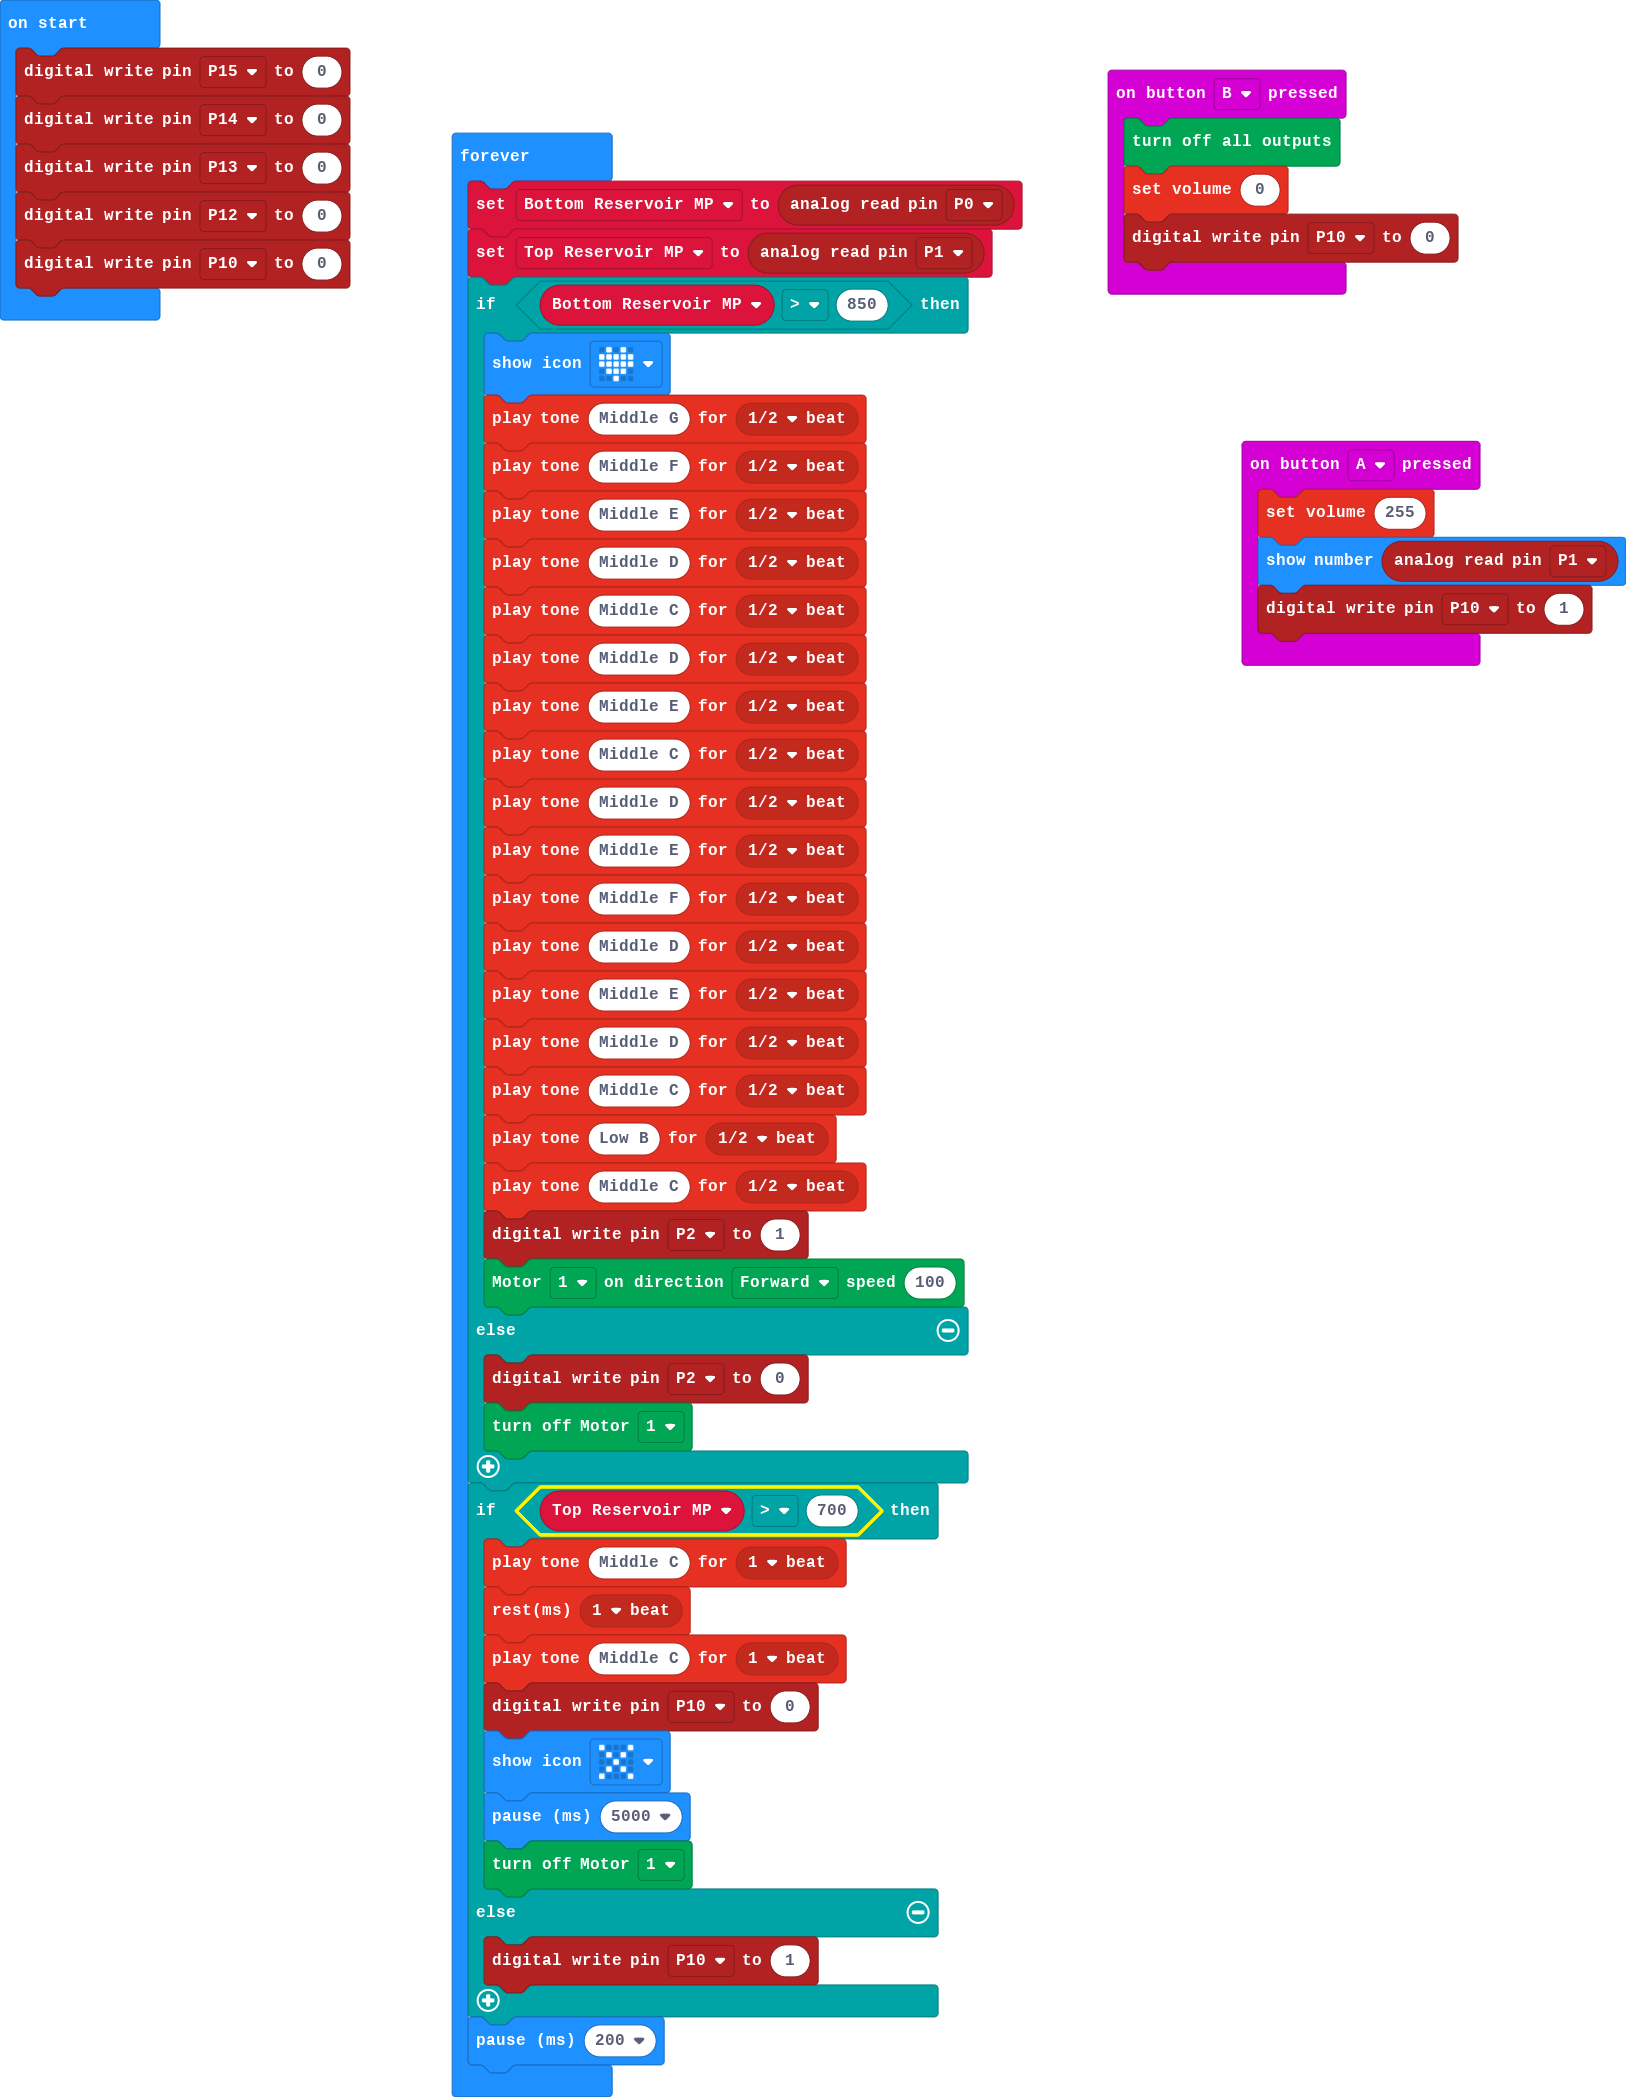
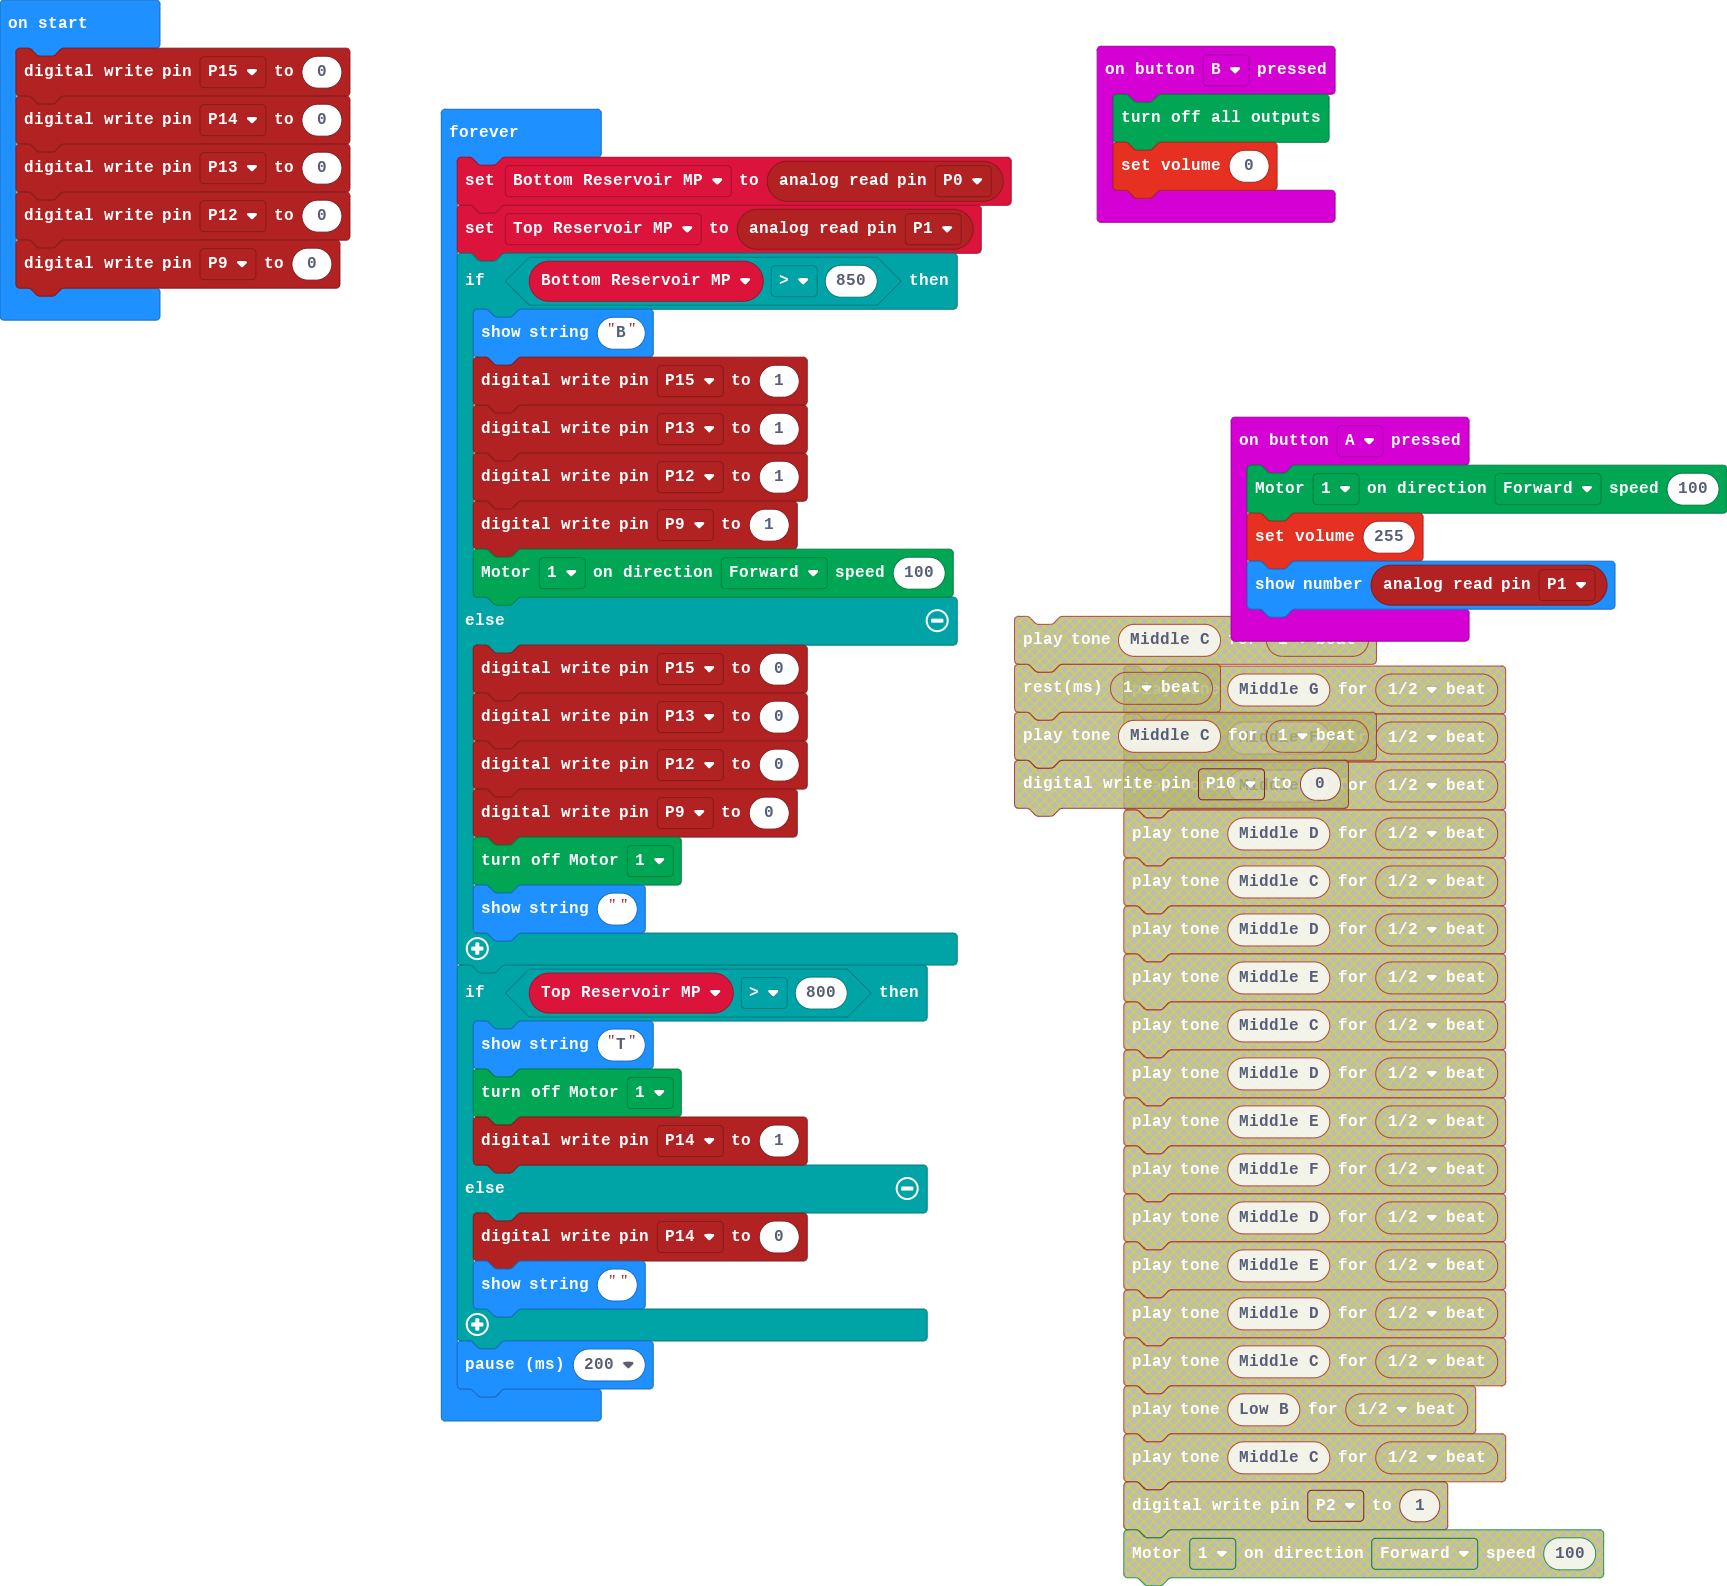
Update main.blocks, main.ts

diff --git a/main.ts b/main.ts
@@ -1,12 +1,11 @@
 input.onButtonPressed(Button.A, function () {
+    Kitronik_Robotics_Board.motorOn(Kitronik_Robotics_Board.Motors.Motor1, Kitronik_Robotics_Board.MotorDirection.Forward, 100)
     music.setVolume(255)
     basic.showNumber(pins.analogReadPin(AnalogPin.P1))
-    pins.digitalWritePin(DigitalPin.P10, 1)
 })
 input.onButtonPressed(Button.B, function () {
     Kitronik_Robotics_Board.allOff()
     music.setVolume(0)
-    pins.digitalWritePin(DigitalPin.P10, 0)
 })
 let Top_Reservoir_MP = 0
 let Bottom_Reservoir_MP = 0
@@ -14,45 +13,32 @@ pins.digitalWritePin(DigitalPin.P15, 0)
 pins.digitalWritePin(DigitalPin.P14, 0)
 pins.digitalWritePin(DigitalPin.P13, 0)
 pins.digitalWritePin(DigitalPin.P12, 0)
-pins.digitalWritePin(DigitalPin.P10, 0)
+pins.digitalWritePin(DigitalPin.P9, 0)
 basic.forever(function () {
     Bottom_Reservoir_MP = pins.analogReadPin(AnalogPin.P0)
     Top_Reservoir_MP = pins.analogReadPin(AnalogPin.P1)
     if (Bottom_Reservoir_MP > 850) {
-        basic.showIcon(IconNames.Heart)
-        music.playTone(392, music.beat(BeatFraction.Half))
-        music.playTone(349, music.beat(BeatFraction.Half))
-        music.playTone(330, music.beat(BeatFraction.Half))
-        music.playTone(294, music.beat(BeatFraction.Half))
-        music.playTone(262, music.beat(BeatFraction.Half))
-        music.playTone(294, music.beat(BeatFraction.Half))
-        music.playTone(330, music.beat(BeatFraction.Half))
-        music.playTone(262, music.beat(BeatFraction.Half))
-        music.playTone(294, music.beat(BeatFraction.Half))
-        music.playTone(330, music.beat(BeatFraction.Half))
-        music.playTone(349, music.beat(BeatFraction.Half))
-        music.playTone(294, music.beat(BeatFraction.Half))
-        music.playTone(330, music.beat(BeatFraction.Half))
-        music.playTone(294, music.beat(BeatFraction.Half))
-        music.playTone(262, music.beat(BeatFraction.Half))
-        music.playTone(247, music.beat(BeatFraction.Half))
-        music.playTone(262, music.beat(BeatFraction.Half))
-        pins.digitalWritePin(DigitalPin.P2, 1)
+        basic.showString("B")
+        pins.digitalWritePin(DigitalPin.P15, 1)
+        pins.digitalWritePin(DigitalPin.P13, 1)
+        pins.digitalWritePin(DigitalPin.P12, 1)
+        pins.digitalWritePin(DigitalPin.P9, 1)
         Kitronik_Robotics_Board.motorOn(Kitronik_Robotics_Board.Motors.Motor1, Kitronik_Robotics_Board.MotorDirection.Forward, 100)
     } else {
-        pins.digitalWritePin(DigitalPin.P2, 0)
+        pins.digitalWritePin(DigitalPin.P15, 0)
+        pins.digitalWritePin(DigitalPin.P13, 0)
+        pins.digitalWritePin(DigitalPin.P12, 0)
+        pins.digitalWritePin(DigitalPin.P9, 0)
         Kitronik_Robotics_Board.motorOff(Kitronik_Robotics_Board.Motors.Motor1)
+        basic.showString("")
     }
-    if (Top_Reservoir_MP > 700) {
-        music.playTone(262, music.beat(BeatFraction.Whole))
-        music.rest(music.beat(BeatFraction.Whole))
-        music.playTone(262, music.beat(BeatFraction.Whole))
-        pins.digitalWritePin(DigitalPin.P10, 0)
-        basic.showIcon(IconNames.No)
-        basic.pause(5000)
+    if (Top_Reservoir_MP > 800) {
+        basic.showString("T")
         Kitronik_Robotics_Board.motorOff(Kitronik_Robotics_Board.Motors.Motor1)
+        pins.digitalWritePin(DigitalPin.P14, 1)
     } else {
-        pins.digitalWritePin(DigitalPin.P10, 1)
+        pins.digitalWritePin(DigitalPin.P14, 0)
+        basic.showString("")
     }
     basic.pause(200)
 })
